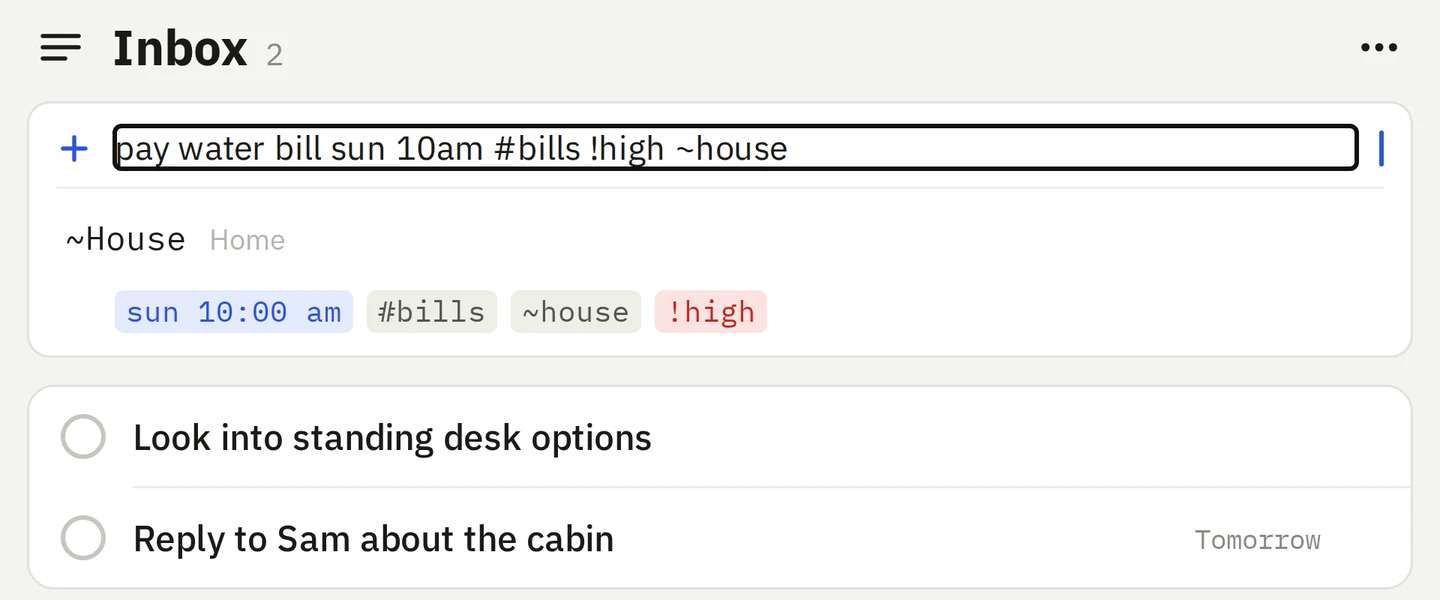
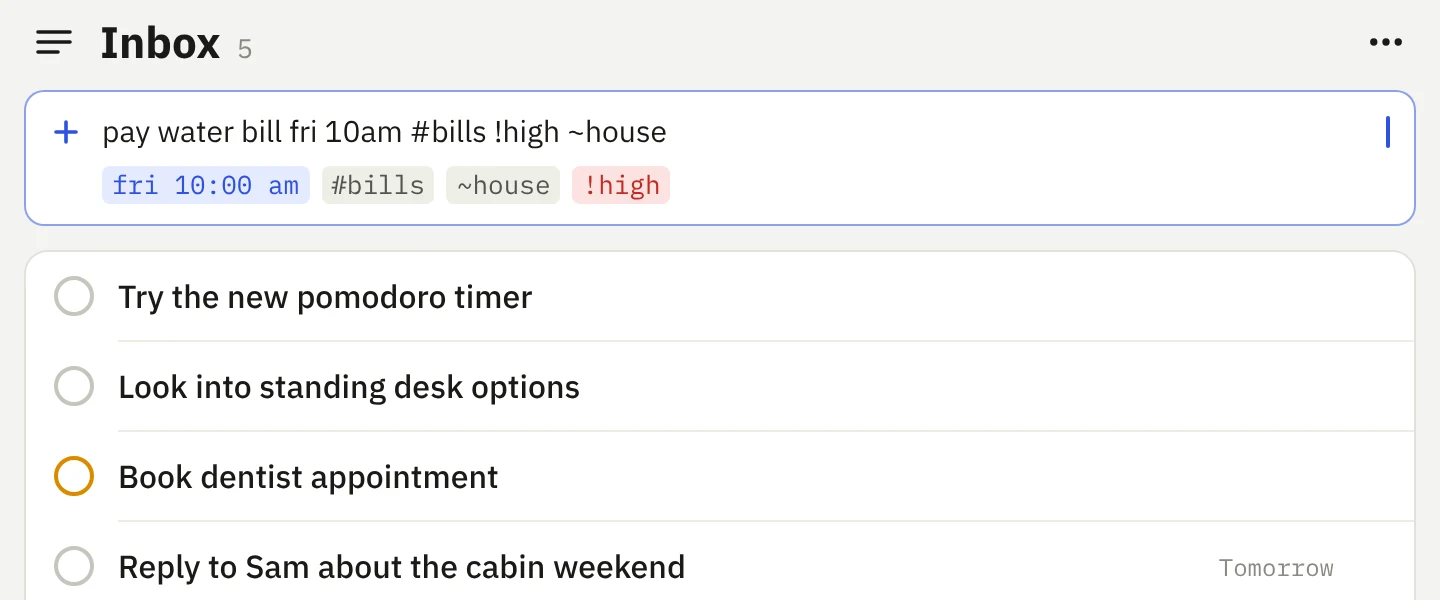
fix: retake the quick-add screenshot with the new focus frame
Claude-Session: https://claude.ai/code/session_01X6kjtVccVuYhgT1NgcNJJ8

diff --git a/index.html b/index.html
@@ -236,7 +236,7 @@
   <section id="quickadd" class="section shell">
     <div class="split split-shot-left">
       <div class="framed framed-shadow">
-        <img src="assets/web-quick-add.webp" width="1440" height="600" alt="The add field with 'pay water bill sun 10am #bills !high ~house' typed in, and chips showing the parsed date, tag, list and priority" loading="lazy" />
+        <img src="assets/web-quick-add.webp" width="1440" height="600" alt="The add field with 'pay water bill fri 10am #bills !high ~house' typed in, and chips showing the parsed date, tag, list and priority" loading="lazy" />
       </div>
       <div>
         <h2>Add tasks in one line</h2>
